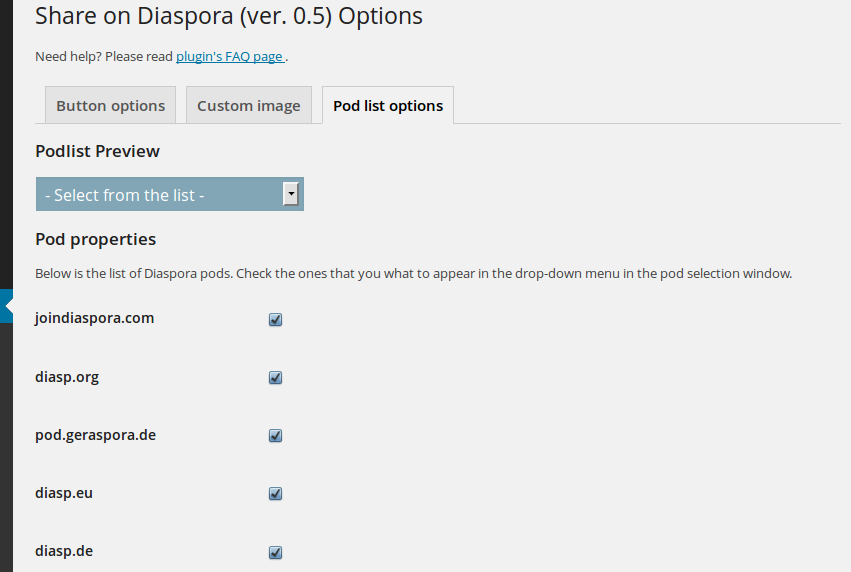
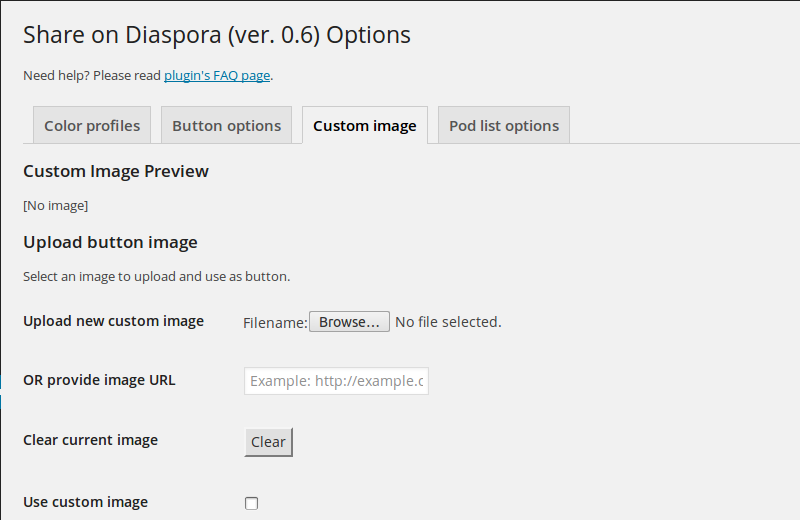
Updated screenshots and descriptions

diff --git a/README.md b/README.md
@@ -30,13 +30,15 @@ post in "Twenty Thirteen" theme.
 ![](https://github.com/ciubotaru/share-on-diaspora/blob/master/assets/screenshot-2.png?raw=true)
 3. Verify the text of your post, Aspects that will see it etc, and press the Post button.
 ![](https://github.com/ciubotaru/share-on-diaspora/blob/master/assets/screenshot-3.png?raw=true)
-4. To customize the look of you button, go to the Settings page, 'Button options' tab.
+4. To choose from several preset color profiles, go to the Settings page, 'Color Profiles' tab.
 ![](https://github.com/ciubotaru/share-on-diaspora/blob/master/assets/screenshot-4.png?raw=true)
-5. To upload and use own image instead of the stock button, go to the Settings
-page, 'Custom Image' tab.
+5. To customize the look of you button, go to the Settings page, 'Button options' tab.
 ![](https://github.com/ciubotaru/share-on-diaspora/blob/master/assets/screenshot-5.png?raw=true)
-6. To choose the pods to be included in the drop-down list, go to the Settings page, 'Pod list options' tab.
+6. To upload and use own image instead of the stock button, go to the Settings
+page, 'Custom Image' tab.
 ![](https://github.com/ciubotaru/share-on-diaspora/blob/master/assets/screenshot-6.png?raw=true)
+7. To choose the pods to be included in the drop-down list, go to the Settings page, 'Pod list options' tab.
+![](https://github.com/ciubotaru/share-on-diaspora/blob/master/assets/screenshot-7.png?raw=true)
 
 # Installation
 1. Get the latest snapshot of master branch.
